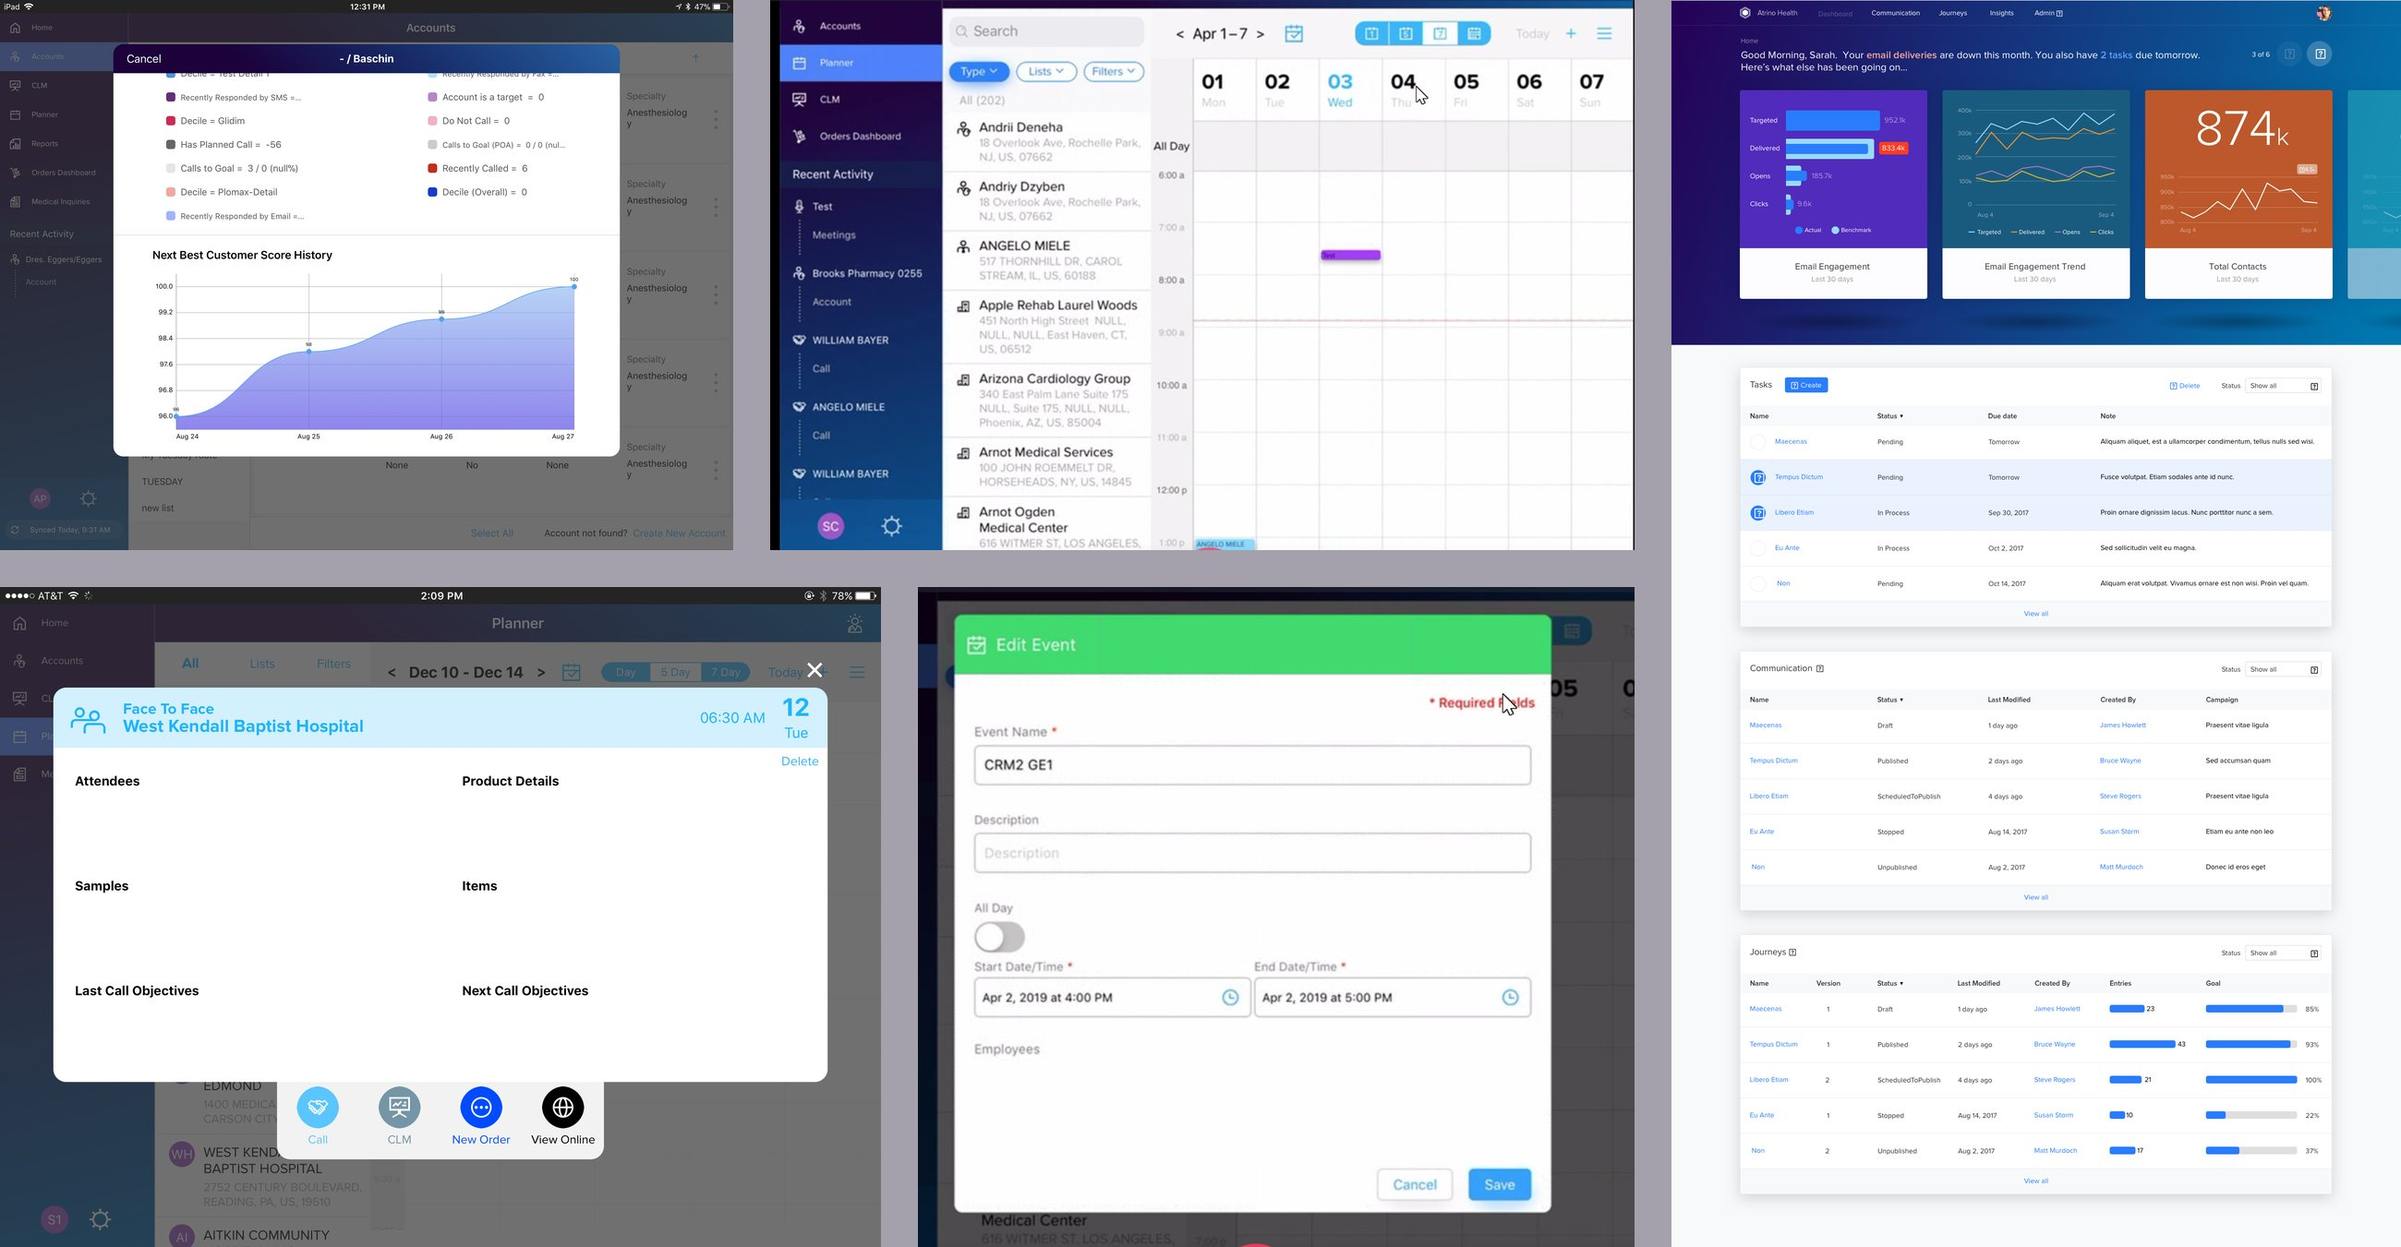
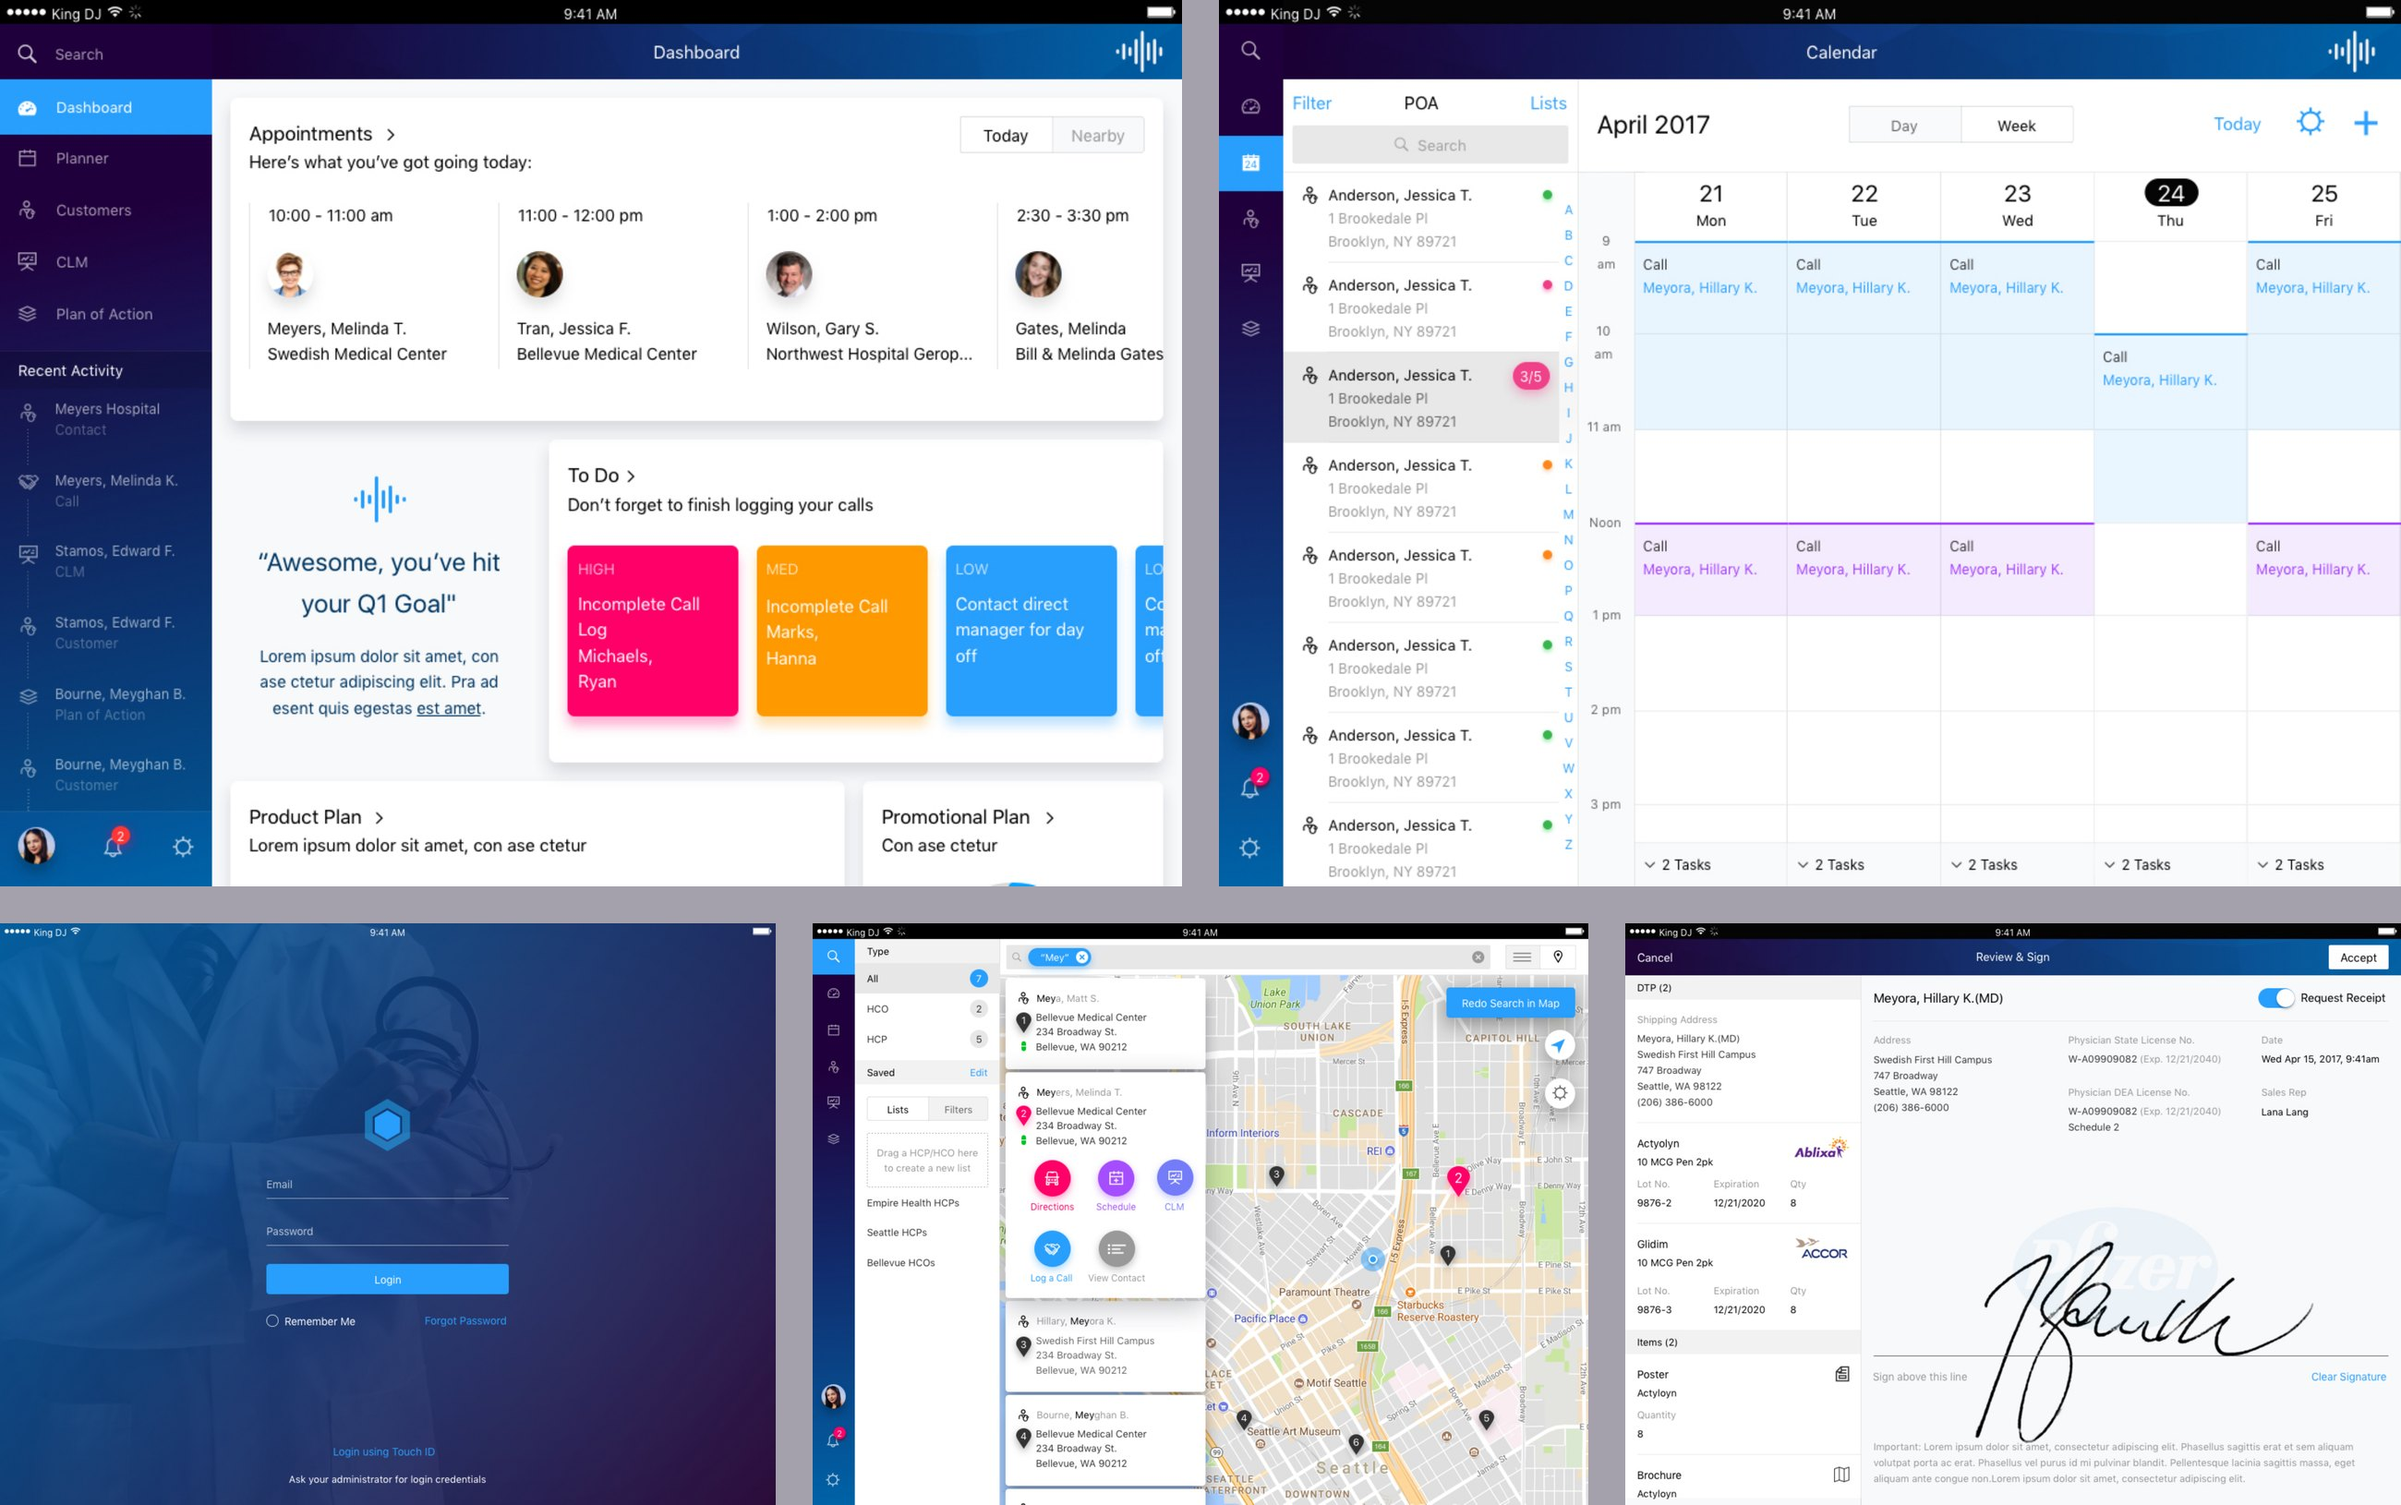
OCE: use the five selected screens from OCE_screens.pdf

diff --git a/index.html b/index.html
@@ -385,7 +385,6 @@
         </div>
       </div>
     </article>
-
     <article class="proj" id="p2">
       <div class="proj-in">
         <div class="rail" data-rise>
@@ -404,7 +403,6 @@
         </div>
       </div>
     </article>
-
     <article class="proj" id="p3">
       <div class="proj-in">
         <div class="rail" data-rise>
@@ -423,11 +421,28 @@
         </div>
       </div>
     </article>
-
     <article class="proj" id="p4">
       <div class="proj-in">
         <div class="rail" data-rise>
           <span class="rail-n">04</span>
+          <p class="client">IQVIA</p>
+          <h2>Orchestrated Customer Engagement</h2>
+          <dl class="spec">
+            <dt>Role</dt><dd>UI design lead</dd>
+            <dt>Scope</dt><dd>Login, dashboard, calendar, territory search, review and sign</dd>
+            <dt>Output</dt><dd>iPad product UI</dd>
+          </dl>
+        </div>
+        <div class="plate-wrap">
+          <span class="ghost" aria-hidden="true" data-px="0.3">04</span>
+          <button class="plate" type="button" data-view="12" aria-label="Expand this project's work"><img src="img/w12.jpg" alt="Five OCE iPad screens: a dashboard of appointments, to-dos and plans; a week calendar of scheduled calls; a branded login; a territory search pairing an HCP list with a map; and a review-and-sign screen capturing a physician signature." width="1500" height="940" loading="lazy" decoding="async" data-px="0.05"><span class="expand" aria-hidden="true">Expand &nbsp;↗</span></button>
+        </div>
+      </div>
+    </article>
+    <article class="proj" id="p5">
+      <div class="proj-in">
+        <div class="rail" data-rise>
+          <span class="rail-n">05</span>
           <p class="client">Unisys</p>
           <h2>Design System</h2>
           <dl class="spec">
@@ -437,16 +452,15 @@
           </dl>
         </div>
         <div class="plate-wrap">
-          <span class="ghost" aria-hidden="true" data-px="0.3">04</span>
+          <span class="ghost" aria-hidden="true" data-px="0.3">05</span>
           <button class="plate" type="button" data-view="04" aria-label="Expand this project's work"><img src="img/w04.jpg" alt="Unisys design system pages: cover, icon grid, checkbox and radio states, a Tomato Grotesk type scale, button states, twelve-step color ramps, and alert message patterns." width="1500" height="1272" loading="lazy" decoding="async" data-px="0.05"><span class="expand" aria-hidden="true">Expand &nbsp;↗</span></button>
         </div>
       </div>
     </article>
-
-    <article class="proj" id="p5">
+    <article class="proj" id="p6">
       <div class="proj-in">
         <div class="rail" data-rise>
-          <span class="rail-n">05</span>
+          <span class="rail-n">06</span>
           <p class="client">KKR</p>
           <h2>Style Guide &amp; Web Design</h2>
           <dl class="spec">
@@ -456,16 +470,15 @@
           </dl>
         </div>
         <div class="plate-wrap">
-          <span class="ghost" aria-hidden="true" data-px="0.3">05</span>
+          <span class="ghost" aria-hidden="true" data-px="0.3">06</span>
           <button class="plate" type="button" data-view="05" aria-label="Expand this project's work"><img src="img/w05.jpg" alt="KKR K-PRIME work: an annotated wireframe of the About page, a UI style guide covering color palette, cards and form fields with redlines, and the finished web pages." width="1500" height="1305" loading="lazy" decoding="async" data-px="0.05"><span class="expand" aria-hidden="true">Expand &nbsp;↗</span></button>
         </div>
       </div>
     </article>
-
-    <article class="proj" id="p6">
+    <article class="proj" id="p7">
       <div class="proj-in">
         <div class="rail" data-rise>
-          <span class="rail-n">06</span>
+          <span class="rail-n">07</span>
           <p class="client">KKR</p>
           <h2>Social Media</h2>
           <dl class="spec">
@@ -475,16 +488,15 @@
           </dl>
         </div>
         <div class="plate-wrap">
-          <span class="ghost" aria-hidden="true" data-px="0.3">06</span>
+          <span class="ghost" aria-hidden="true" data-px="0.3">07</span>
           <button class="plate" type="button" data-view="06" aria-label="Expand this project's work"><img src="img/w06.jpg" alt="KKR social media system: announcement and quote cards, statistic cards on investor sentiment, vertical video frames, and YouTube Shorts covers featuring partners." width="1500" height="1185" loading="lazy" decoding="async" data-px="0.05"><span class="expand" aria-hidden="true">Expand &nbsp;↗</span></button>
         </div>
       </div>
     </article>
-
-    <article class="proj" id="p7">
+    <article class="proj" id="p8">
       <div class="proj-in">
         <div class="rail" data-rise>
-          <span class="rail-n">07</span>
+          <span class="rail-n">08</span>
           <p class="client">Mobeus</p>
           <h2>Airspace</h2>
           <dl class="spec">
@@ -494,16 +506,15 @@
           </dl>
         </div>
         <div class="plate-wrap">
-          <span class="ghost" aria-hidden="true" data-px="0.3">07</span>
+          <span class="ghost" aria-hidden="true" data-px="0.3">08</span>
           <button class="plate" type="button" data-view="07" aria-label="Expand this project's work"><img src="img/w07.jpg" alt="Mobeus Airspace screens: a welcome entry state over live video, an immersive virtual room with participants and an HCP engagement panel, and product training content shared inside the room." width="1500" height="920" loading="lazy" decoding="async" data-px="0.05"><span class="expand" aria-hidden="true">Expand &nbsp;↗</span></button>
         </div>
       </div>
     </article>
-
-    <article class="proj" id="p8">
+    <article class="proj" id="p9">
       <div class="proj-in">
         <div class="rail" data-rise>
-          <span class="rail-n">08</span>
+          <span class="rail-n">09</span>
           <p class="client">Northeastern University</p>
           <h2>Global Leadership Summit</h2>
           <dl class="spec">
@@ -513,16 +524,15 @@
           </dl>
         </div>
         <div class="plate-wrap">
-          <span class="ghost" aria-hidden="true" data-px="0.3">08</span>
+          <span class="ghost" aria-hidden="true" data-px="0.3">09</span>
           <button class="plate" type="button" data-view="08" aria-label="Expand this project's work"><img src="img/w08.jpg" alt="Global Leadership Summit campaign: a London 2026 one pager with speaker lineup, a two-sided postcard, and a run of eight email designs in the same system." width="1500" height="1292" loading="lazy" decoding="async" data-px="0.05"><span class="expand" aria-hidden="true">Expand &nbsp;↗</span></button>
         </div>
       </div>
     </article>
-
-    <article class="proj" id="p9">
+    <article class="proj" id="p10">
       <div class="proj-in">
         <div class="rail" data-rise>
-          <span class="rail-n">09</span>
+          <span class="rail-n">10</span>
           <p class="client">Northeastern University</p>
           <h2>EXP Site</h2>
           <dl class="spec">
@@ -532,16 +542,15 @@
           </dl>
         </div>
         <div class="plate-wrap">
-          <span class="ghost" aria-hidden="true" data-px="0.3">09</span>
+          <span class="ghost" aria-hidden="true" data-px="0.3">10</span>
           <button class="plate" type="button" data-view="09" aria-label="Expand this project's work"><img src="img/w09.jpg" alt="Three full page designs for Northeastern's EXP research building: a welcome page, a mission page with building statistics, and a research page with facility galleries and news." width="1500" height="1328" loading="lazy" decoding="async" data-px="0.05"><span class="expand" aria-hidden="true">Expand &nbsp;↗</span></button>
         </div>
       </div>
     </article>
-
-    <article class="proj" id="p10">
+    <article class="proj" id="p11">
       <div class="proj-in">
         <div class="rail" data-rise>
-          <span class="rail-n">10</span>
+          <span class="rail-n">11</span>
           <p class="client">Underscore Marketing</p>
           <h2>Design Refresh</h2>
           <dl class="spec">
@@ -551,16 +560,15 @@
           </dl>
         </div>
         <div class="plate-wrap">
-          <span class="ghost" aria-hidden="true" data-px="0.3">10</span>
+          <span class="ghost" aria-hidden="true" data-px="0.3">11</span>
           <button class="plate" type="button" data-view="10" aria-label="Expand this project's work"><img src="img/w10.jpg" alt="Underscore Marketing refresh: a pharma marketing white paper spread across six pages, and two web page designs including the PINNACLE Planning Suite product page." width="1500" height="1331" loading="lazy" decoding="async" data-px="0.05"><span class="expand" aria-hidden="true">Expand &nbsp;↗</span></button>
         </div>
       </div>
     </article>
-
-    <article class="proj" id="p11">
+    <article class="proj" id="p12">
       <div class="proj-in">
         <div class="rail" data-rise>
-          <span class="rail-n">11</span>
+          <span class="rail-n">12</span>
           <p class="client">Rebound</p>
           <h2>Visual Communications</h2>
           <dl class="spec">
@@ -570,28 +578,8 @@
           </dl>
         </div>
         <div class="plate-wrap">
-          <span class="ghost" aria-hidden="true" data-px="0.3">11</span>
-          <button class="plate" type="button" data-view="11" aria-label="Expand this project's work"><img src="img/w11.jpg" alt="Rebound visual communications: a numbered social card series on GTM decision friction, team spotlight and holiday cards, two fact sheets, and a marketing independence map infographic." width="1500" height="1121" loading="lazy" decoding="async" data-px="0.05"><span class="expand" aria-hidden="true">Expand &nbsp;↗</span></button>
-        </div>
-      </div>
-    </article>
-
-
-    <article class="proj" id="p12">
-      <div class="proj-in">
-        <div class="rail" data-rise>
-          <span class="rail-n">12</span>
-          <p class="client">IQVIA</p>
-          <h2>Orchestrated Customer Engagement</h2>
-          <dl class="spec">
-            <dt>Role</dt><dd>UI design lead</dd>
-            <dt>Scope</dt><dd>Accounts, planner, call capture, marketing dashboard</dd>
-            <dt>Output</dt><dd>iPad and web product UI</dd>
-          </dl>
-        </div>
-        <div class="plate-wrap">
           <span class="ghost" aria-hidden="true" data-px="0.3">12</span>
-          <button class="plate" type="button" data-view="12" aria-label="Expand this project's work"><img src="img/w12.jpg" alt="OCE product screens: an iPad accounts view with a next-best-customer score chart, the planner calendar with an account list, a face-to-face call record, an edit event dialog, and a marketing dashboard of email engagement, tasks and journeys." width="1500" height="779" loading="lazy" decoding="async" data-px="0.05"><span class="expand" aria-hidden="true">Expand &nbsp;↗</span></button>
+          <button class="plate" type="button" data-view="11" aria-label="Expand this project's work"><img src="img/w11.jpg" alt="Rebound visual communications: a numbered social card series on GTM decision friction, team spotlight and holiday cards, two fact sheets, and a marketing independence map infographic." width="1500" height="1121" loading="lazy" decoding="async" data-px="0.05"><span class="expand" aria-hidden="true">Expand &nbsp;↗</span></button>
         </div>
       </div>
     </article>
@@ -753,7 +741,8 @@
     var proj = btn.closest('.proj');
     return {
       btn: btn,
-      n: btn.getAttribute('data-view'),
+      n: proj.querySelector('.rail-n').textContent.trim(),
+      img: btn.getAttribute('data-view'),
       title: proj.querySelector('.rail h2').textContent.trim(),
       client: proj.querySelector('.client').textContent.trim(),
       alt: btn.querySelector('img').getAttribute('alt') || ''
@@ -777,7 +766,7 @@
     if (i < 0 || i >= items.length) return;
     current = i;
     var it = items[i];
-    vImg.src = 'img/full/w' + it.n + '.jpg';
+    vImg.src = 'img/full/w' + it.img + '.jpg';
     vImg.alt = it.alt;
     vN.textContent = it.n;
     vTitle.textContent = it.title;
